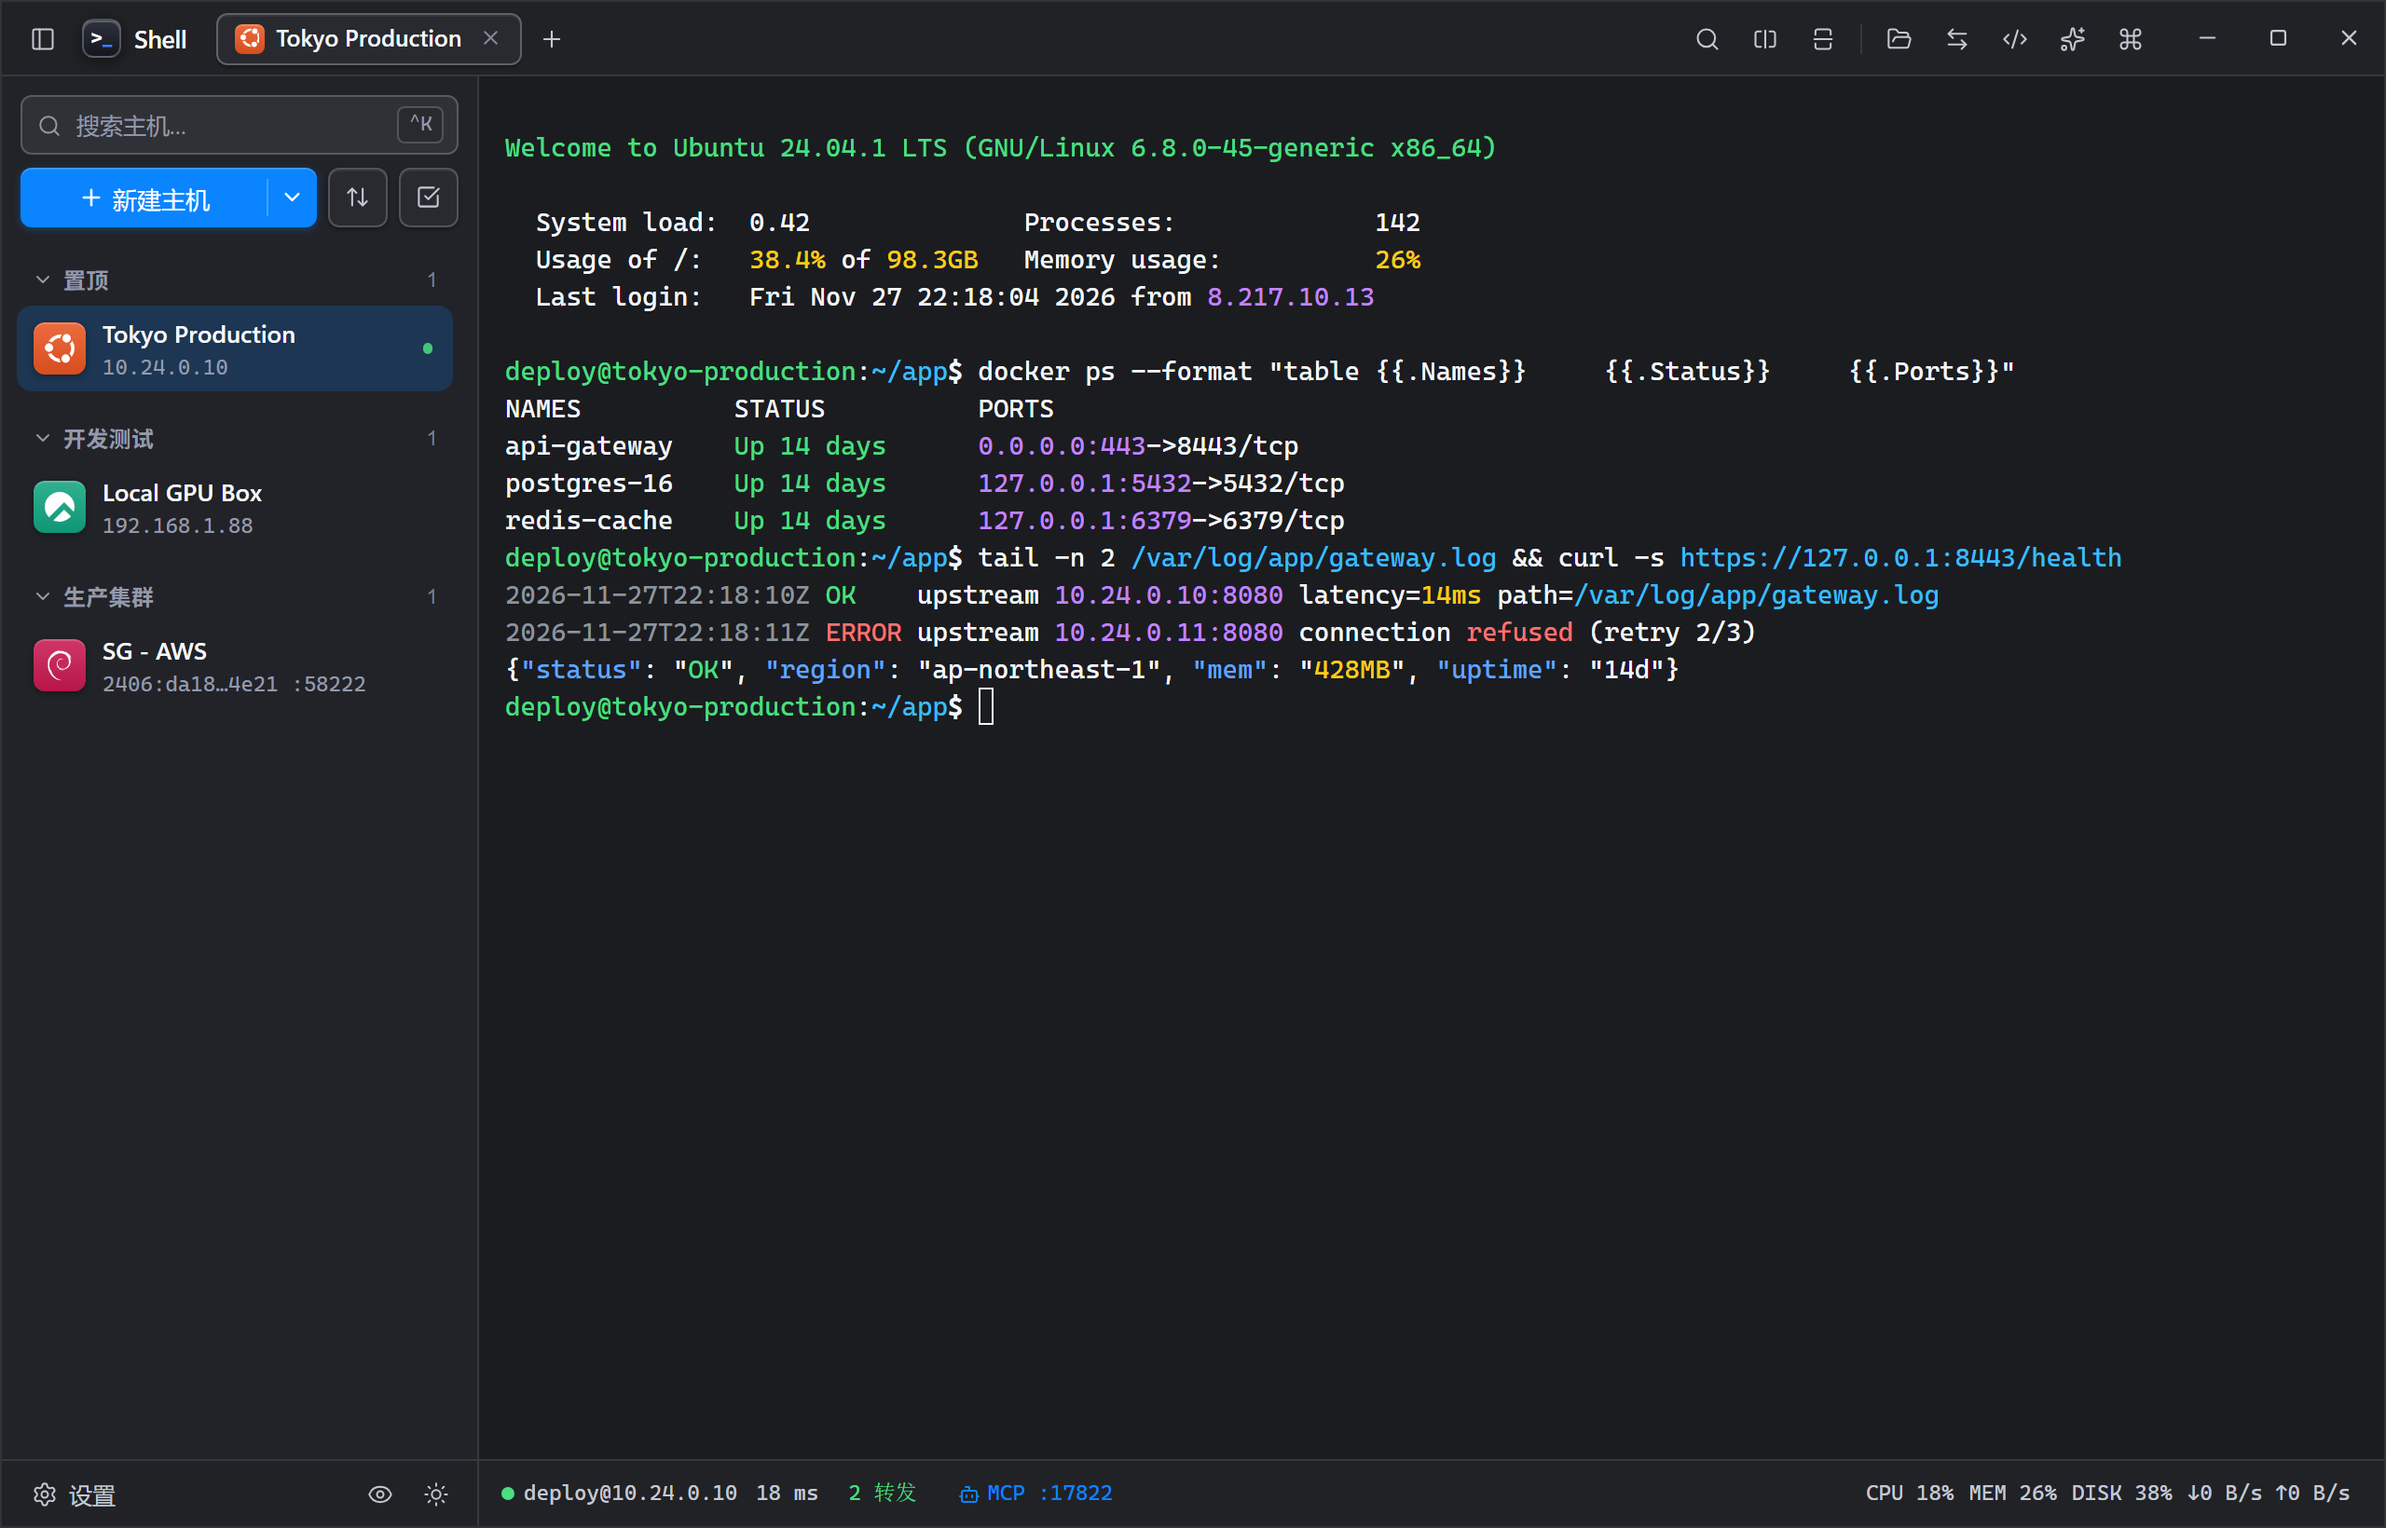
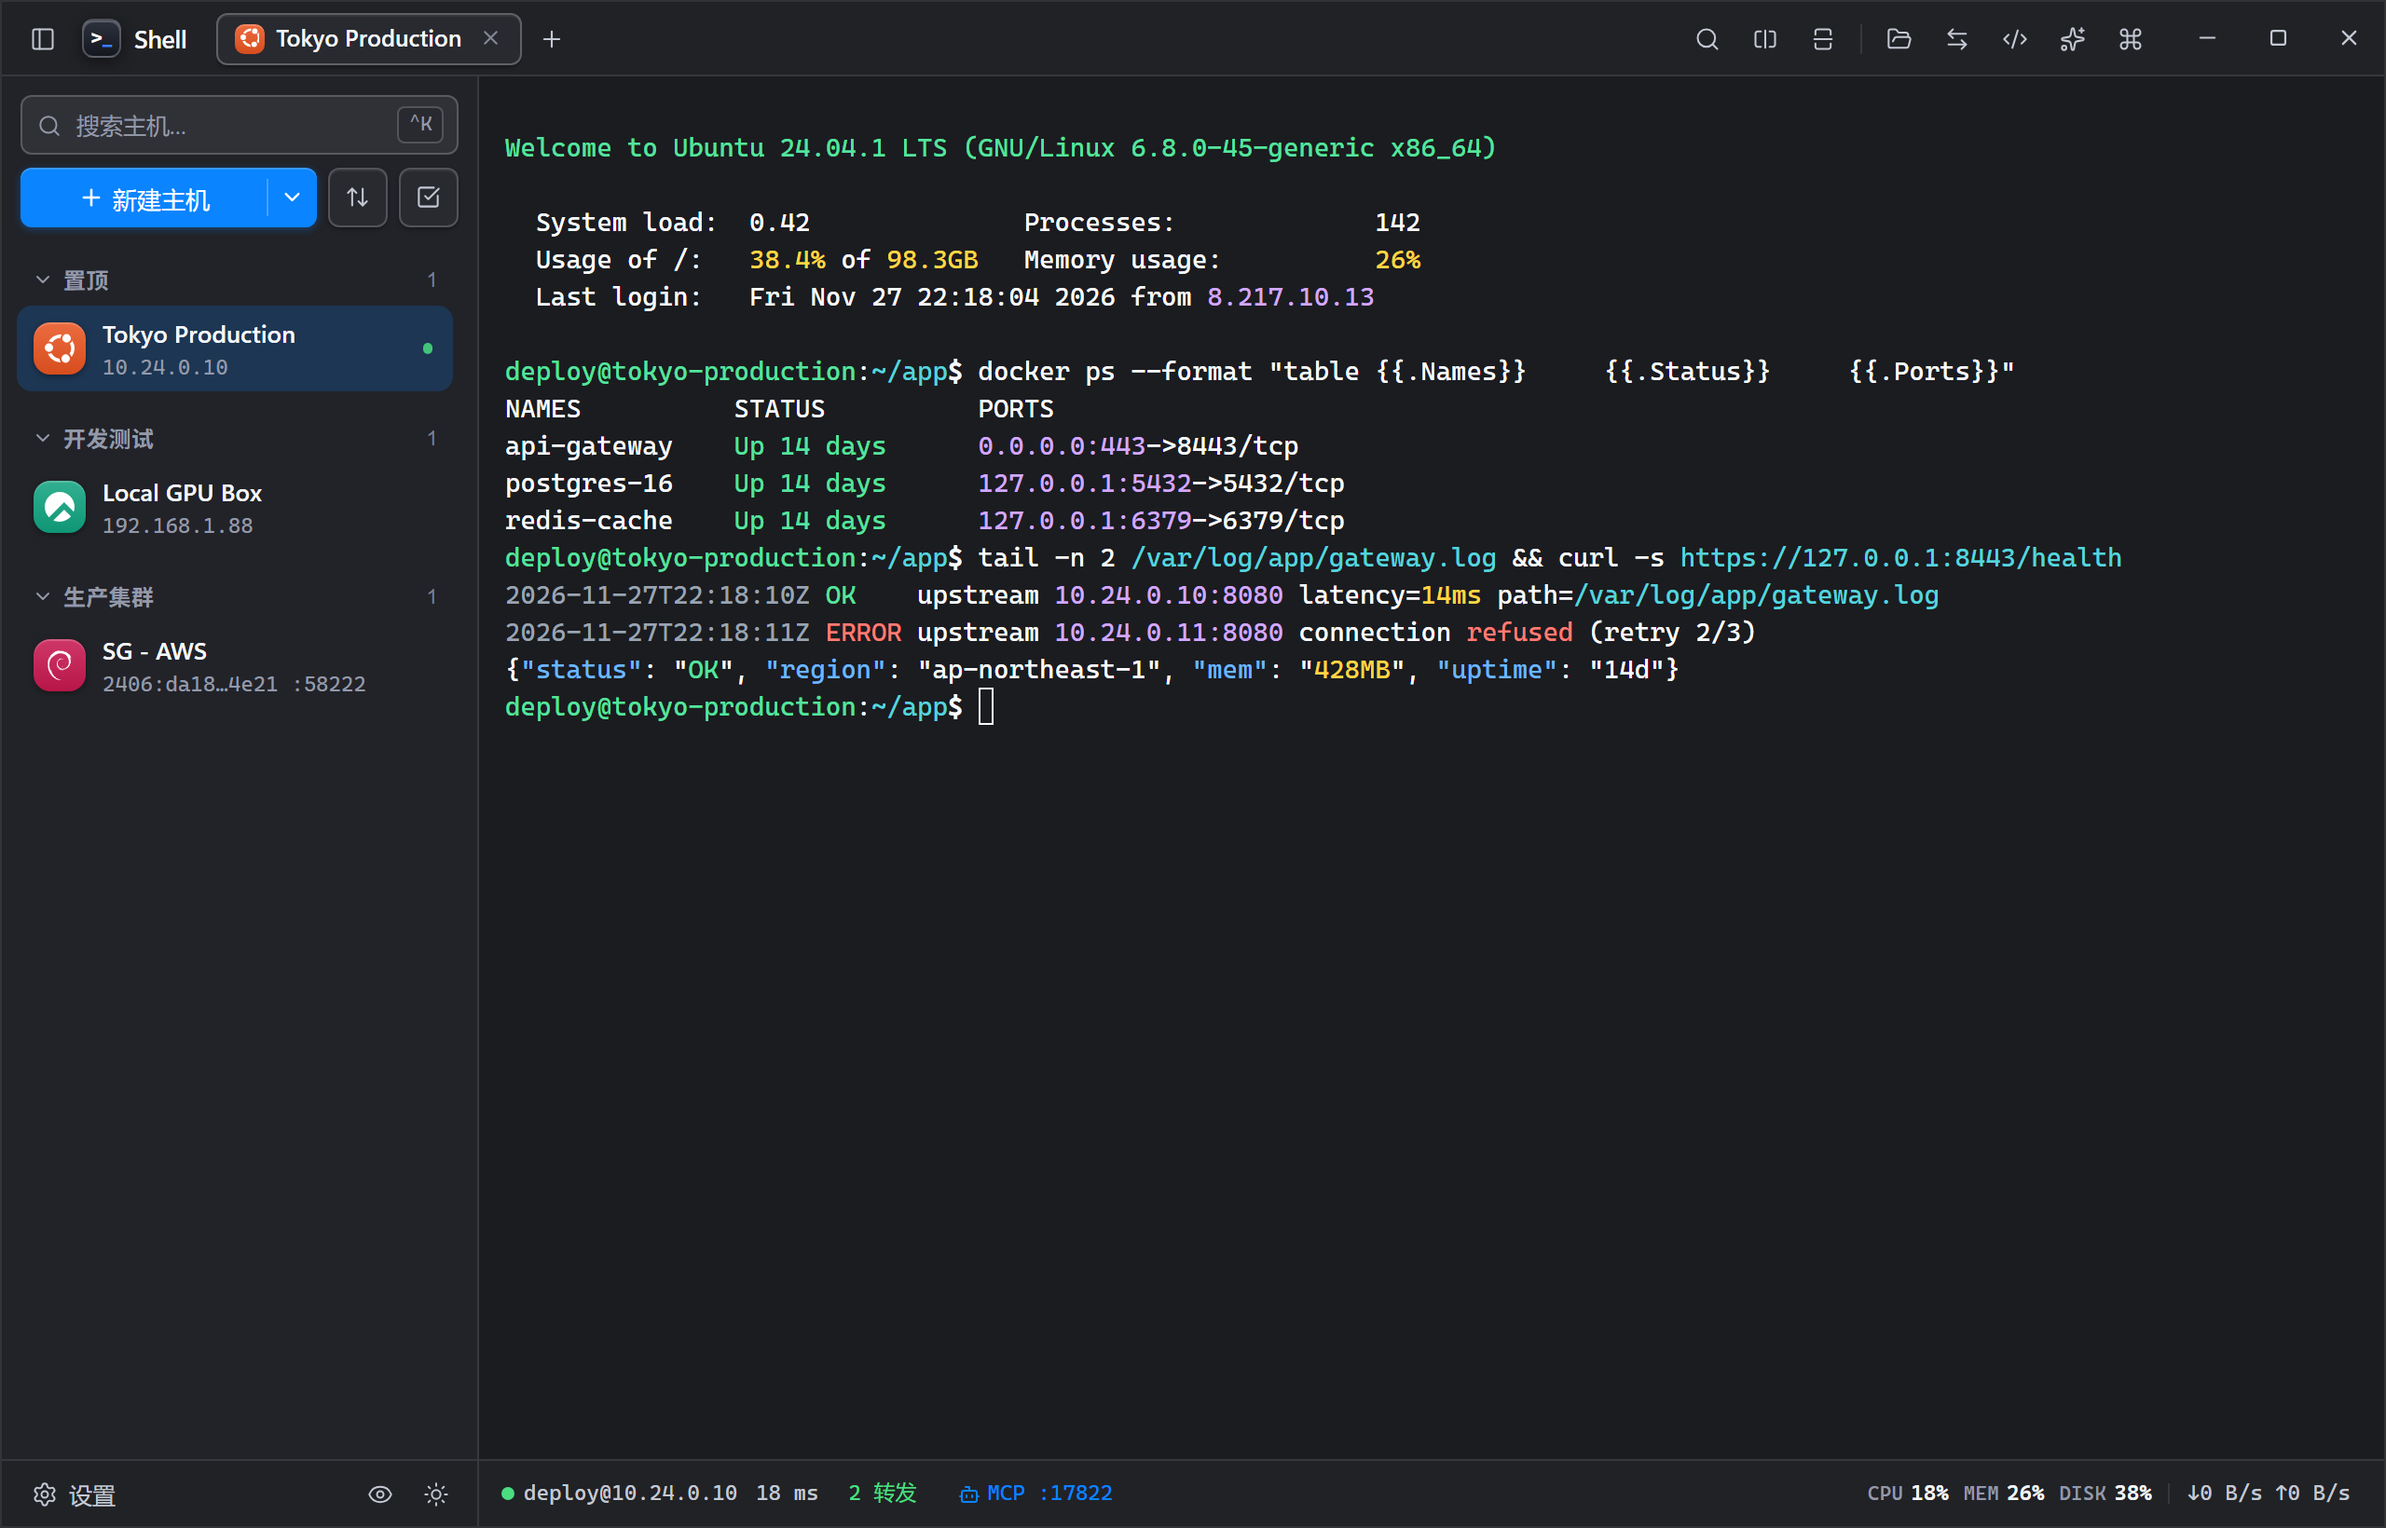
chore(release): 发布 v1.5.11
- 更新前端版本与锁文件至 1.5.11 并补充中文变更日志
- 刷新文档中的浅色工作台、深色终端与 SFTP 预览截图

diff --git a/CHANGELOG.md b/CHANGELOG.md
@@ -2,6 +2,15 @@
 
 本项目的版本变更遵循 [语义化版本 2.0.0](https://semver.org/lang/zh-CN/) 规范。
 
+## [1.5.11] - 2026-11-28
+
+### 终端排版清晰度、状态栏监控浮层与界面细节升级
+- **修复 Windows 终端中英文字体混排粗细不一**：为全部终端字体预设与历史已保存配置自动补齐无衬线 CJK 字体回退链，彻底消除 Windows 下中文回退至细体宋体（SimSun）的问题，并在终端渲染层显式校准 `400 / 700` 字重与重叠字形缩放，中英文混排粗细与基线保持一致。
+- **升级终端深色高对比度色板**：对标 Termius 清晰度重校默认深色终端配色，抬升主前景（`#F8FAFC`）、青蓝红绿及深色反白徽章对比度，并将终端自动对比度保底阈值提高至 `5.5`，高饱和 ANSI 与反色徽章输出在深浅环境下均锐利易读。
+- **重构右下角状态栏指标与服务器监控浮层**：状态栏右侧监控条改为标签与数值分层排版；服务器监控浮层重构为零折行四区悬浮卡片，依次呈现精简标题与单行系统内核、三列核心指标卡（运行时间 / 进程数 / 往返延迟）、资源使用进度条（含 Swap）及底部系统负载与累计流量行。
+- **实底危险按钮视觉升级**：移除侧栏批量删除、`known_hosts` 移除等危险操作按钮的半透明红底样式，改为与中性按钮一致的实底描边红字（悬停切换为实色红底白字），并将删除主机、删除远端文件及主机指纹变更等弹窗的最终破坏性确认按钮升级为实色红底。
+- **全站平衡聚焦高亮与交互细节打磨**：为全部五套全局配色校准适中饱和度的品牌色聚焦边框与 `2.5px` 柔和光晕，修复 SFTP 工具栏与远端编辑器聚焦光环并统一按钮、开关与分段控件的 `:focus-visible` 键盘焦点表现；为按钮、分段切换与状态徽章中的中文文案补充 `1px` 光学垂直居中补偿，并将全站主机系统图标砖与欢迎页图标升级为更柔和的圆角比例（`5 / 8 / 9 / 11 / 15px`），同时优化滚动条滑块可见度与弹窗首尾留白。
+
 ## [1.5.10] - 2026-11-28
 
 ### 框线视觉层次打磨与应用内更新交互优化
